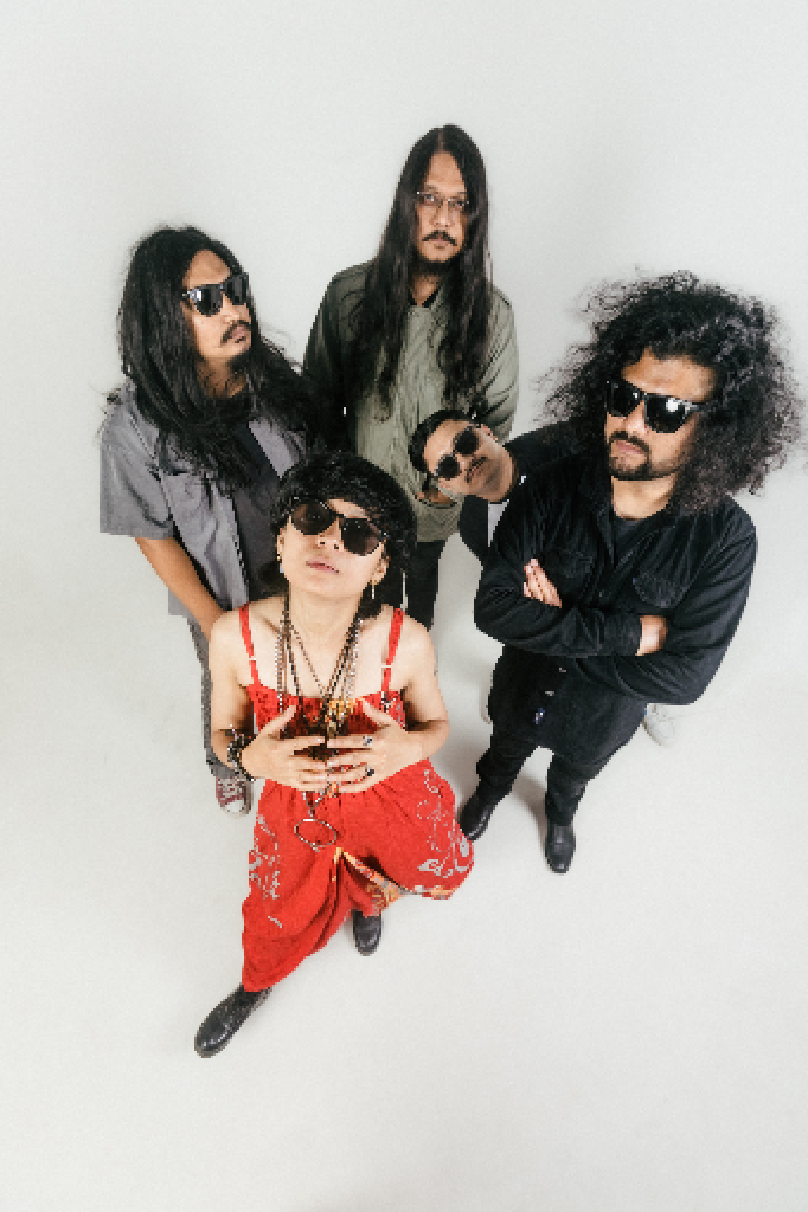
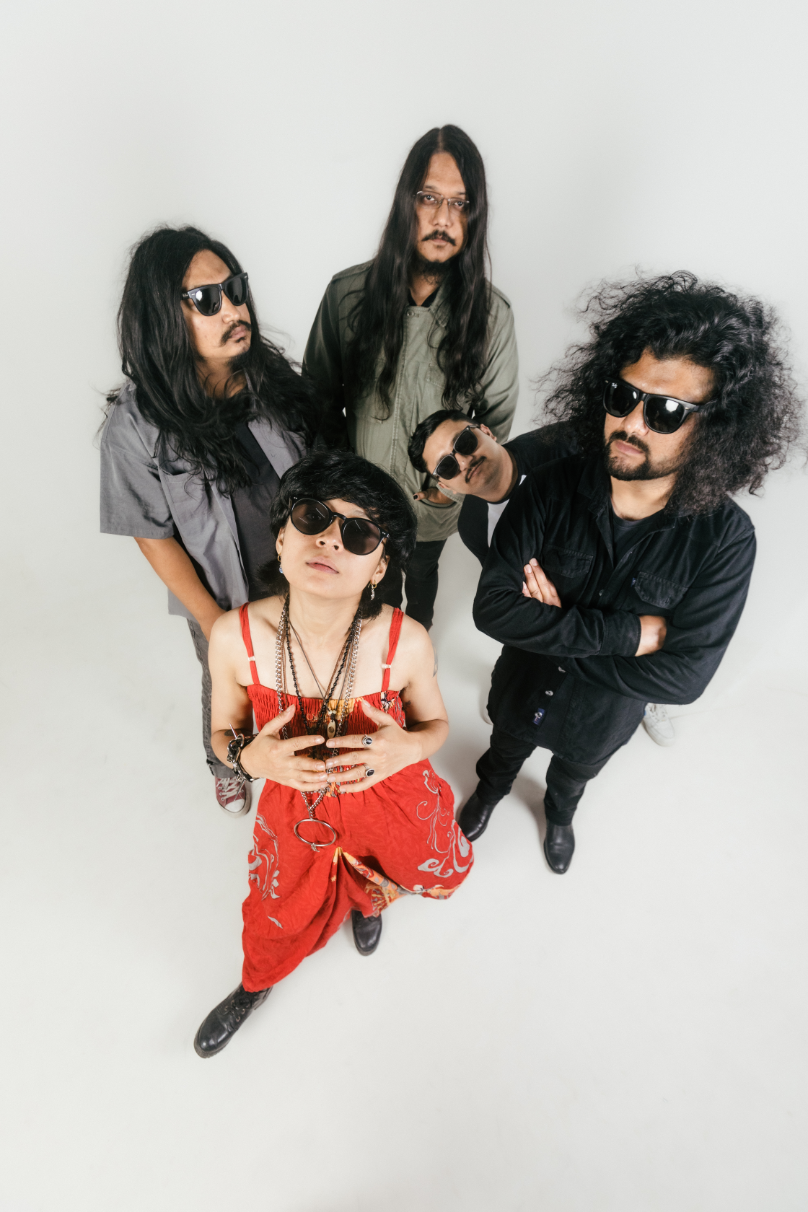
Update: scrollalble. better image

diff --git a/index.html b/index.html
@@ -1,5 +1,5 @@
 <!doctype html>
-<html>
+<html style="scroll-behavior: smooth;">
 <head>
   <meta charset="UTF-8">
   <meta name="viewport" content="width=device-width, initial-scale=1.0">
@@ -52,7 +52,7 @@
     }
   </script>
 </head>
-<body class="bg-bodyBg font-fontLexend text-black">
+<body class="bg-bodyBg font-fontLexend text-black scroll-smooth">
   <!-- Main Site Header -->
   <header class="sticky z-10 top-0 bg-[rgba(209,208,204,0.9)] before:bg-[rgba(252,251,249,0.01)] before:blur-2xl before:absolute before:z-0 before:top-0 before:inset-x-0 before:inset-y-0">
     <div class="container mx-auto px-4">
@@ -70,14 +70,15 @@
       <div class="navbar-menu bg-[#c8c8c8] md:bg-transparent md:block hidden absolute md:relative top-15 md:top-0 inset-x-0">
         <div class="navbar-backdrop md:hidden block fixed inset-0 bg-bodyBg opacity-20"></div>
         <nav class="flex md:flex-row flex-col justify-center items-center gap-6 md:gap-8 relative uppercase bold text-sm font-bold py-4">
-          <a href="#" class="hover:text-white">Home</a>
-          <a href="#" class="hover:text-white">Tour</a>
-          <a href="#" class="hover:text-white">Discography</a>
-          <a href="#" class="hover:text-white">Video</a>       
+          <a href="index.html" class="hover:text-white">Home</a>
+          <a href="#upcoming-shows" class="hover:text-white">Tour</a>
+          <a href="#discography" class="hover:text-white">Discography</a>
+          <a href="#videos" class="hover:text-white">Video</a>
           <a href="#" class="w-28 md:block hidden"><img class="w-full" src="src/img/logo.png" title="Band Logo" /></a>
           <a href="#" class="hover:text-white">Shop</a>
           <a href="#" class="hover:text-white">Downloads</a>
-          <a href="#" class="hover:text-white">Contact</a>
+          <a href="#contact-us" class="hover:text-white">Contact</a>
+          <a href="#about-us" class="hover:text-white">About Us</a>
         </nav>
       </div>
     </div>
@@ -89,14 +90,14 @@
       <div class="flex justify-between items-center absolute bottom-2 md:bottom-4 left-6 right-6">
         <nav class="columns-auto">
           <ul class="flex gap-2 md:gap-4">
-            <li><a href="#"><img class="w-6" src="src/img/ic_insta.svg" title="" /></a></li>
-            <li><a href="#"><img class="w-6" src="src/img/ic_facebook.svg" title="" /></a></li>
-            <li><a href="#"><img class="w-6" src="src/img/ic_youtube.svg" title="" /></a></li>
+            <li><a href="https://instagram.com/space.nepal" target="_blank"><img class="w-6" src="src/img/ic_insta.svg" title="" /></a></li>
+            <li><a href="https://www.facebook.com/space.np/" target="_blank"><img class="w-6" src="src/img/ic_facebook.svg" title="" /></a></li>
+            <li><a href="https://www.youtube.com/@Spacebandnepal" target="_blank"><img class="w-6" src="src/img/ic_youtube.svg" title="" /></a></li>
           </ul>
         </nav>
         <nav class="columns-auto">
           <ul class="flex gap-2 md:gap-6 items-center">
-            <li><img class="w-6" src="src/img/spotify.png" title="" /></li>
+            <li><a href="https://open.spotify.com/artist/3yZZsOPxqRjMZnw1ET2q62?si=nOMSkiZzSc6RrfvM_5IRug&nd=1&dlsi=7fcb02b1b70345c7" target="_blank"><img class="w-6" src="src/img/spotify.png" title="" /></a></li>
             <li><img class="w-6" src="src/img/music2.png" title="" /></li>
             <li><img class="w-14" src="src/img/music.png" title="" /></li>
             <li><img class="w-16" src="src/img/amazon-music.png" title="" /></li>
@@ -107,7 +108,7 @@
   </section>
 
   <!-- Upcoming Shows -->
-  <section class="mb-20">
+  <section class="mb-20" id="upcoming-shows">
     <div class="container mx-auto px-4">
       <div class="flex justify-center">
         <div class="w-full lg:w-9/12">
@@ -172,7 +173,7 @@
   </section>
 
   <!-- Discography Section -->
-  <section class="mb-20">
+  <section class="mb-20" id="discography">
     <div class="container mx-auto px-4">
       <div class="flex justify-center">
         <div class="w-full lg:w-9/12">
@@ -224,7 +225,7 @@
   </section>
 
   <!-- Gallery -->
-  <section class="mb-20 md:mb-4">
+  <section class="mb-20 md:mb-4" id="gallery">
     <div class="container mx-auto px-4">
       <div class="grid grid-cols-2 md:grid-cols-4 grid-row-4 md:grid-rows-2 gap-4">
         <figure class="col-span-2 row-span-2 rounded-2xl overflow-hidden"><img class="w-full" src="src/img/gallery/g-v-img-1.png" /></figure>
@@ -236,34 +237,34 @@
   </section>
 
   <!-- Video -->
-  <section class="mb-20">
+  <section class="mb-20" id="videos">
     <div class="container mx-auto px-4">
       <div class="flex justify-center">
         <div class="w-full lg:w-9/12">
           <h2 class="text-3xl md:text-5xl font-bold mb-6 md:mb-12">Videos</h2>
           <div class="grid grid-cols-2 md:grid-cols-3 grid-rows-3 gap-x-4 gap-y-12">
               <div class="">
-                <iframe class="w-full h-full aspect-video rounded-2xl overflow-hidden" src="https://www.youtube.com/embed/7he3lkoLY6A?si=WwCbP2gT9bFxQ-U6&amp;start=29"></iframe>
+                <iframe class="w-full h-full aspect-video rounded-2xl overflow-hidden" src="https://www.youtube.com/embed/nj_VPWoo6vE?si=dEQ26TnpZ4ErHn7i"></iframe>
                 <div class="text-lg">Eye / I full album</div>
               </div>
               <div class="">
-                <iframe class="w-full h-full aspect-video rounded-2xl overflow-hidden" src="https://www.youtube.com/embed/7he3lkoLY6A?si=WwCbP2gT9bFxQ-U6&amp;start=29"></iframe>
+                <iframe class="w-full h-full aspect-video rounded-2xl overflow-hidden" src="https://www.youtube.com/embed/-L2qALjEZsM?si=47uGZ1SRE9_4ZX6i"></iframe>
                 <div class="text-lg">Sansaar</div>
               </div>
               <div class="">
-                <iframe class="w-full h-full aspect-video rounded-2xl overflow-hidden" src="https://www.youtube.com/embed/7he3lkoLY6A?si=WwCbP2gT9bFxQ-U6&amp;start=29"></iframe>
+                <iframe class="w-full h-full aspect-video rounded-2xl overflow-hidden" src="https://www.youtube.com/embed/SRBOKoqGHA8?si=RJ4Vpsv_MU64w7lp"></iframe>
                 <div class="text-lg">Chahesamma</div>
               </div>
               <div class="row-start-2 col-span-1 md:col-span-2 row-span-1 md:row-span-2">
-                <iframe class="w-full h-full aspect-video rounded-2xl overflow-hidden" src="https://www.youtube.com/embed/7he3lkoLY6A?si=WwCbP2gT9bFxQ-U6&amp;start=29"></iframe>
+                <iframe class="w-full h-full aspect-video rounded-2xl overflow-hidden" src="https://www.youtube.com/embed/OwZwwF84Yjc?si=YElsaI106AAMiaYY"></iframe>
                 <div class="text-lg">Kapaas Full Album</div>
               </div>
               <div class="col-start-1 md:col-start-3 row-start-3 md:row-start-2">
-                <iframe class="w-full h-full aspect-video rounded-2xl overflow-hidden" src="https://www.youtube.com/embed/7he3lkoLY6A?si=WwCbP2gT9bFxQ-U6&amp;start=29"></iframe>
-                <div class="text-lg">Naya Geet</div>
+                <iframe class="w-full h-full aspect-video rounded-2xl overflow-hidden" src="https://www.youtube.com/embed/Dt5jmibLYOg?si=f7WQ21PHA873kaJY"></iframe>
+                <div class="text-lg">Maya</div>
               </div>
               <div class="col-start-2 md:col-start-3 row-start-3">
-                <iframe class="w-full h-full aspect-video rounded-2xl overflow-hidden" src="https://www.youtube.com/embed/7he3lkoLY6A?si=WwCbP2gT9bFxQ-U6&amp;start=29"></iframe>
+                <iframe class="w-full h-full aspect-video rounded-2xl overflow-hidden" src="https://www.youtube.com/embed/q2NE5ZPRASA?si=NcCYEoNlIeQGlCOl""></iframe>
                 <div class="text-lg">Dreaming</div>
               </div>
           </div>
@@ -287,7 +288,7 @@
   </section>
 
   <!-- About us -->
-  <section class="mb-20">
+  <section class="mb-20" id="about-us">
     <div class="container mx-auto px-4">
       <div class="flex flex-col md:flex-row gap-4 md:gap-8">
         <div class="w-full lg:w-5/12">
@@ -302,12 +303,12 @@
   </section>
 
   <!-- Members -->
-  <section class="mb-16">
+  <section class="mb-16" id="members">
     <div class="container mx-auto px-4">
       <h2 class="text-3xl md:text-5xl font-bold mb-4">Members</h2>
       <div class="grid grid-cols-1 sm:grid-cols-2 md:grid-cols-3 gap-8">
         <figure>
-          <div class="mb-1 md:mb-6"><img class="w-full" src="src/img/about/about5.png" /></div>
+          <div class="mb-1 md:mb-6"><img class="w-full" src="src/img/about/nikita.png" /></div>
           <figcaption>
             <div class="flex justify-between items-center md:mb-1">
               <h5 class="text-xl font-semibold">Nikita Shrestha</h5>
@@ -317,17 +318,7 @@
           </figcaption>
         </figure>
         <figure>
-          <div class="mb-1 md:mb-6"><img class="w-full" src="src/img/about/about2.png" /></div>
-          <figcaption>
-            <div class="flex justify-between items-center md:mb-1">
-              <h5 class="text-xl font-semibold">Nikita Shrestha</h5>
-              <div class="font-light">Vocal</div>
-            </div>
-            <p class="font-light">Nikita started singing since she was 10 years old. She worked with Riken Maharjan on his solo electronic album named “Space”, which later became the inspiration and namesake for the band. She plays guitar, ukelele, keyboard and sings. She has worked with artists from different genres. Space is her first band.</p>
-          </figcaption>
-        </figure>
-        <figure>
-          <div class="mb-1 md:mb-6"><img class="w-full" src="src/img/about/about3.png" /></div>
+          <div class="mb-1 md:mb-6"><img class="w-full" src="src/img/about/ritavrat.png" /></div>
           <figcaption>
             <div class="flex justify-between items-center md:mb-1">
               <h5 class="text-xl font-semibold">Ritavrat Joshi</h5>
@@ -337,23 +328,43 @@
           </figcaption>
         </figure>
         <figure>
-          <div class="mb-1 md:mb-6"><img class="w-full" src="src/img/about/about2.png" /></div>
-          <figcaption>
-            <div class="flex justify-between items-center md:mb-1">
-              <h5 class="text-xl font-semibold">Nikita Shrestha</h5>
-              <div class="font-light">Vocal</div>
-            </div>
-            <p class="font-light">Nikita started singing since she was 10 years old. She worked with Riken Maharjan on his solo electronic album named “Space”, which later became the inspiration and namesake for the band. She plays guitar, ukelele, keyboard and sings. She has worked with artists from different genres. Space is her first band.</p>
-          </figcaption>
-        </figure>
-        <figure>
-          <div class="mb-1 md:mb-6"><img class="w-full" src="src/img/about/about4.png" /></div>
+          <div class="mb-1 md:mb-6"><img class="w-full" src="src/img/about/nir.png" /></div>
           <figcaption>
             <div class="flex justify-between items-center md:mb-1">
               <h5 class="text-xl font-semibold">Nir Khadka</h5>
               <div class="font-light">Guitar</div>
             </div>
             <p class="font-light">Nir is an aspiring guitarist. He has played in many bands like Resonance Of Roots, Oceans, Black tea and Inner Circle.</p>
+          </figcaption>
+        </figure>
+        <figure>
+          <div class="mb-1 md:mb-6"><img class="w-full" src="src/img/about/riken.png" /></div>
+          <figcaption>
+            <div class="flex justify-between items-center md:mb-1">
+              <h5 class="text-xl font-semibold">Riken Maharjan</h5>
+              <div class="font-light">Guitar</div>
+            </div>
+            <p class="font-light">Riken is a multi-hyphenated individual. Riken has been working as
+a music producer for over eight years. With a degree in
+ethnomusicology from Kathmandu University, Riken is a working
+audio professional. He started out playing metal and was later
+attracted to electronic music. After joining Kathmandu University's</p>
+          </figcaption>
+        </figure>
+        <figure>
+          <div class="mb-1 md:mb-6"><img class="w-full" src="src/img/about/bikesh.png" /></div>
+          <figcaption>
+            <div class="flex justify-between items-center md:mb-1">
+              <h5 class="text-xl font-semibold">Bikesh Bajra</h5>
+              <div class="font-light">Drum</div>
+            </div>
+            <p class="font-light">Bikesh Bozra is a recordist and arranger at Master Bajra Creation
+Records (Kathmandu). He has been working at the studio as drum
+programmer since 2013 and has been playing as a session artist for
+various musicians. He is involved with other bands and plays a
+variety of instruments: Elbow Room (drums), Ma (nagara),
+Fragments (drum technician). Besides music, he is also a freelance
+photographer and has worked as an assistant cinematographer.</p>
           </figcaption>
         </figure>
         <figure>
@@ -371,7 +382,7 @@
   </section>
 
   <!-- Footer -->
-  <footer class="bg-white py-12 md:py-16">
+  <footer class="bg-white py-12 md:py-16" id="contact-us">
     <div class="container mx-auto px-4">
       <div class="flex gap-6 md:gap-4 lg:flex-nowrap flex-wrap text-center md:text-left justify-center md:justify-between">
         <div class="w-6/12 md:w-4/12">
@@ -394,10 +405,10 @@
         <div class="w-6/12 md:w-4/12">
           <h5 class="text-xl font-semibold mb-4">Find us</h5>
           <ul class="flex gap-4 mb-4 justify-center md:justify-start">
-            <li><a href="#"><img class="w-6" src="src/img/ic_insta.svg" title="" /></a></li>
-            <li><a href="#"><img class="w-6" src="src/img/ic_facebook.svg" title="" /></a></li>
-            <li><a href="#"><img class="w-6" src="src/img/ic_youtube.svg" title="" /></a></li>
-            <li><img class="w-6" src="src/img/spotify.png" title="" /></li>
+            <li><a href="https://instagram.com/space.nepal" target="_blank"><img class="w-6" src="src/img/ic_insta.svg" title="" /></a></li>
+            <li><a href="https://www.facebook.com/space.np/" target="_blank"><img class="w-6" src="src/img/ic_facebook.svg" title="" /></a></li>
+            <li><a href="https://www.youtube.com/@Spacebandnepal" target="_blank"><img class="w-6" src="src/img/ic_youtube.svg" title="" /></a></li>
+            <li><a href="https://open.spotify.com/artist/3yZZsOPxqRjMZnw1ET2q62?si=nOMSkiZzSc6RrfvM_5IRug&nd=1&dlsi=7fcb02b1b70345c7" target="_blank"><img class="w-6" src="src/img/spotify.png" title="" /></a></li>
           </ul>
           <ul class="flex gap-6 items-center justify-center md:justify-start">
             <li><img class="w-6" src="src/img/music2.png" title="" /></li>
